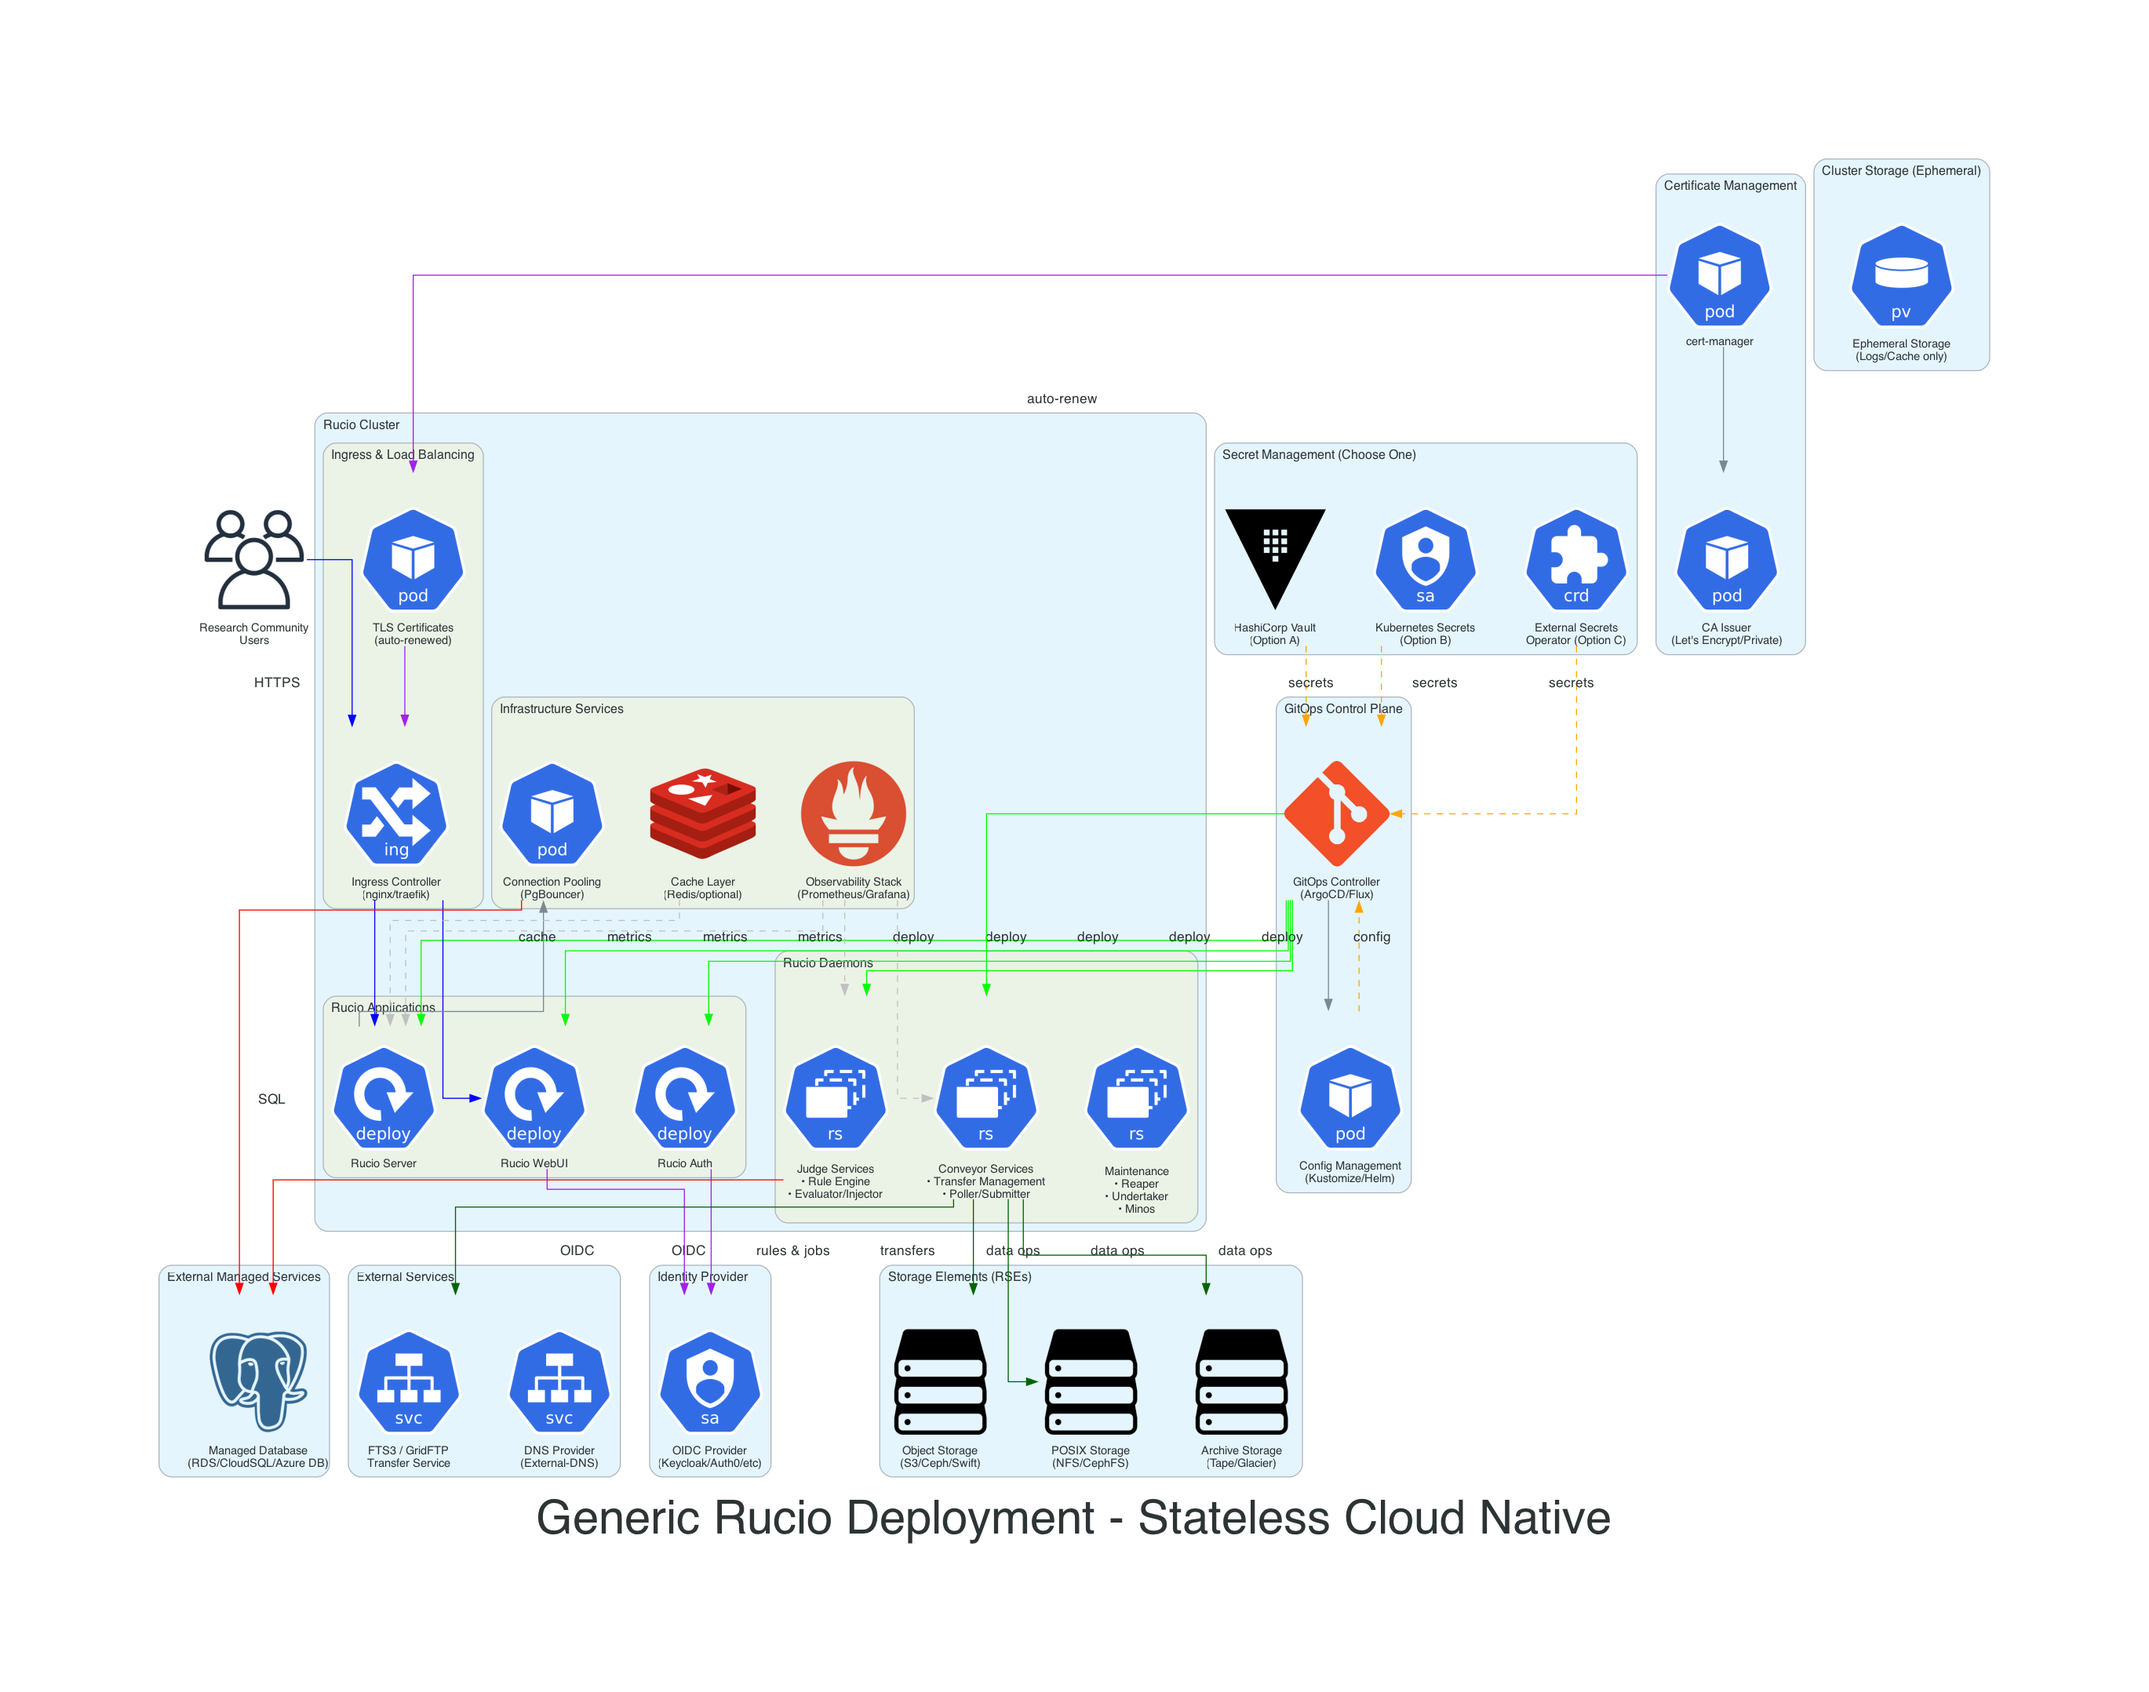
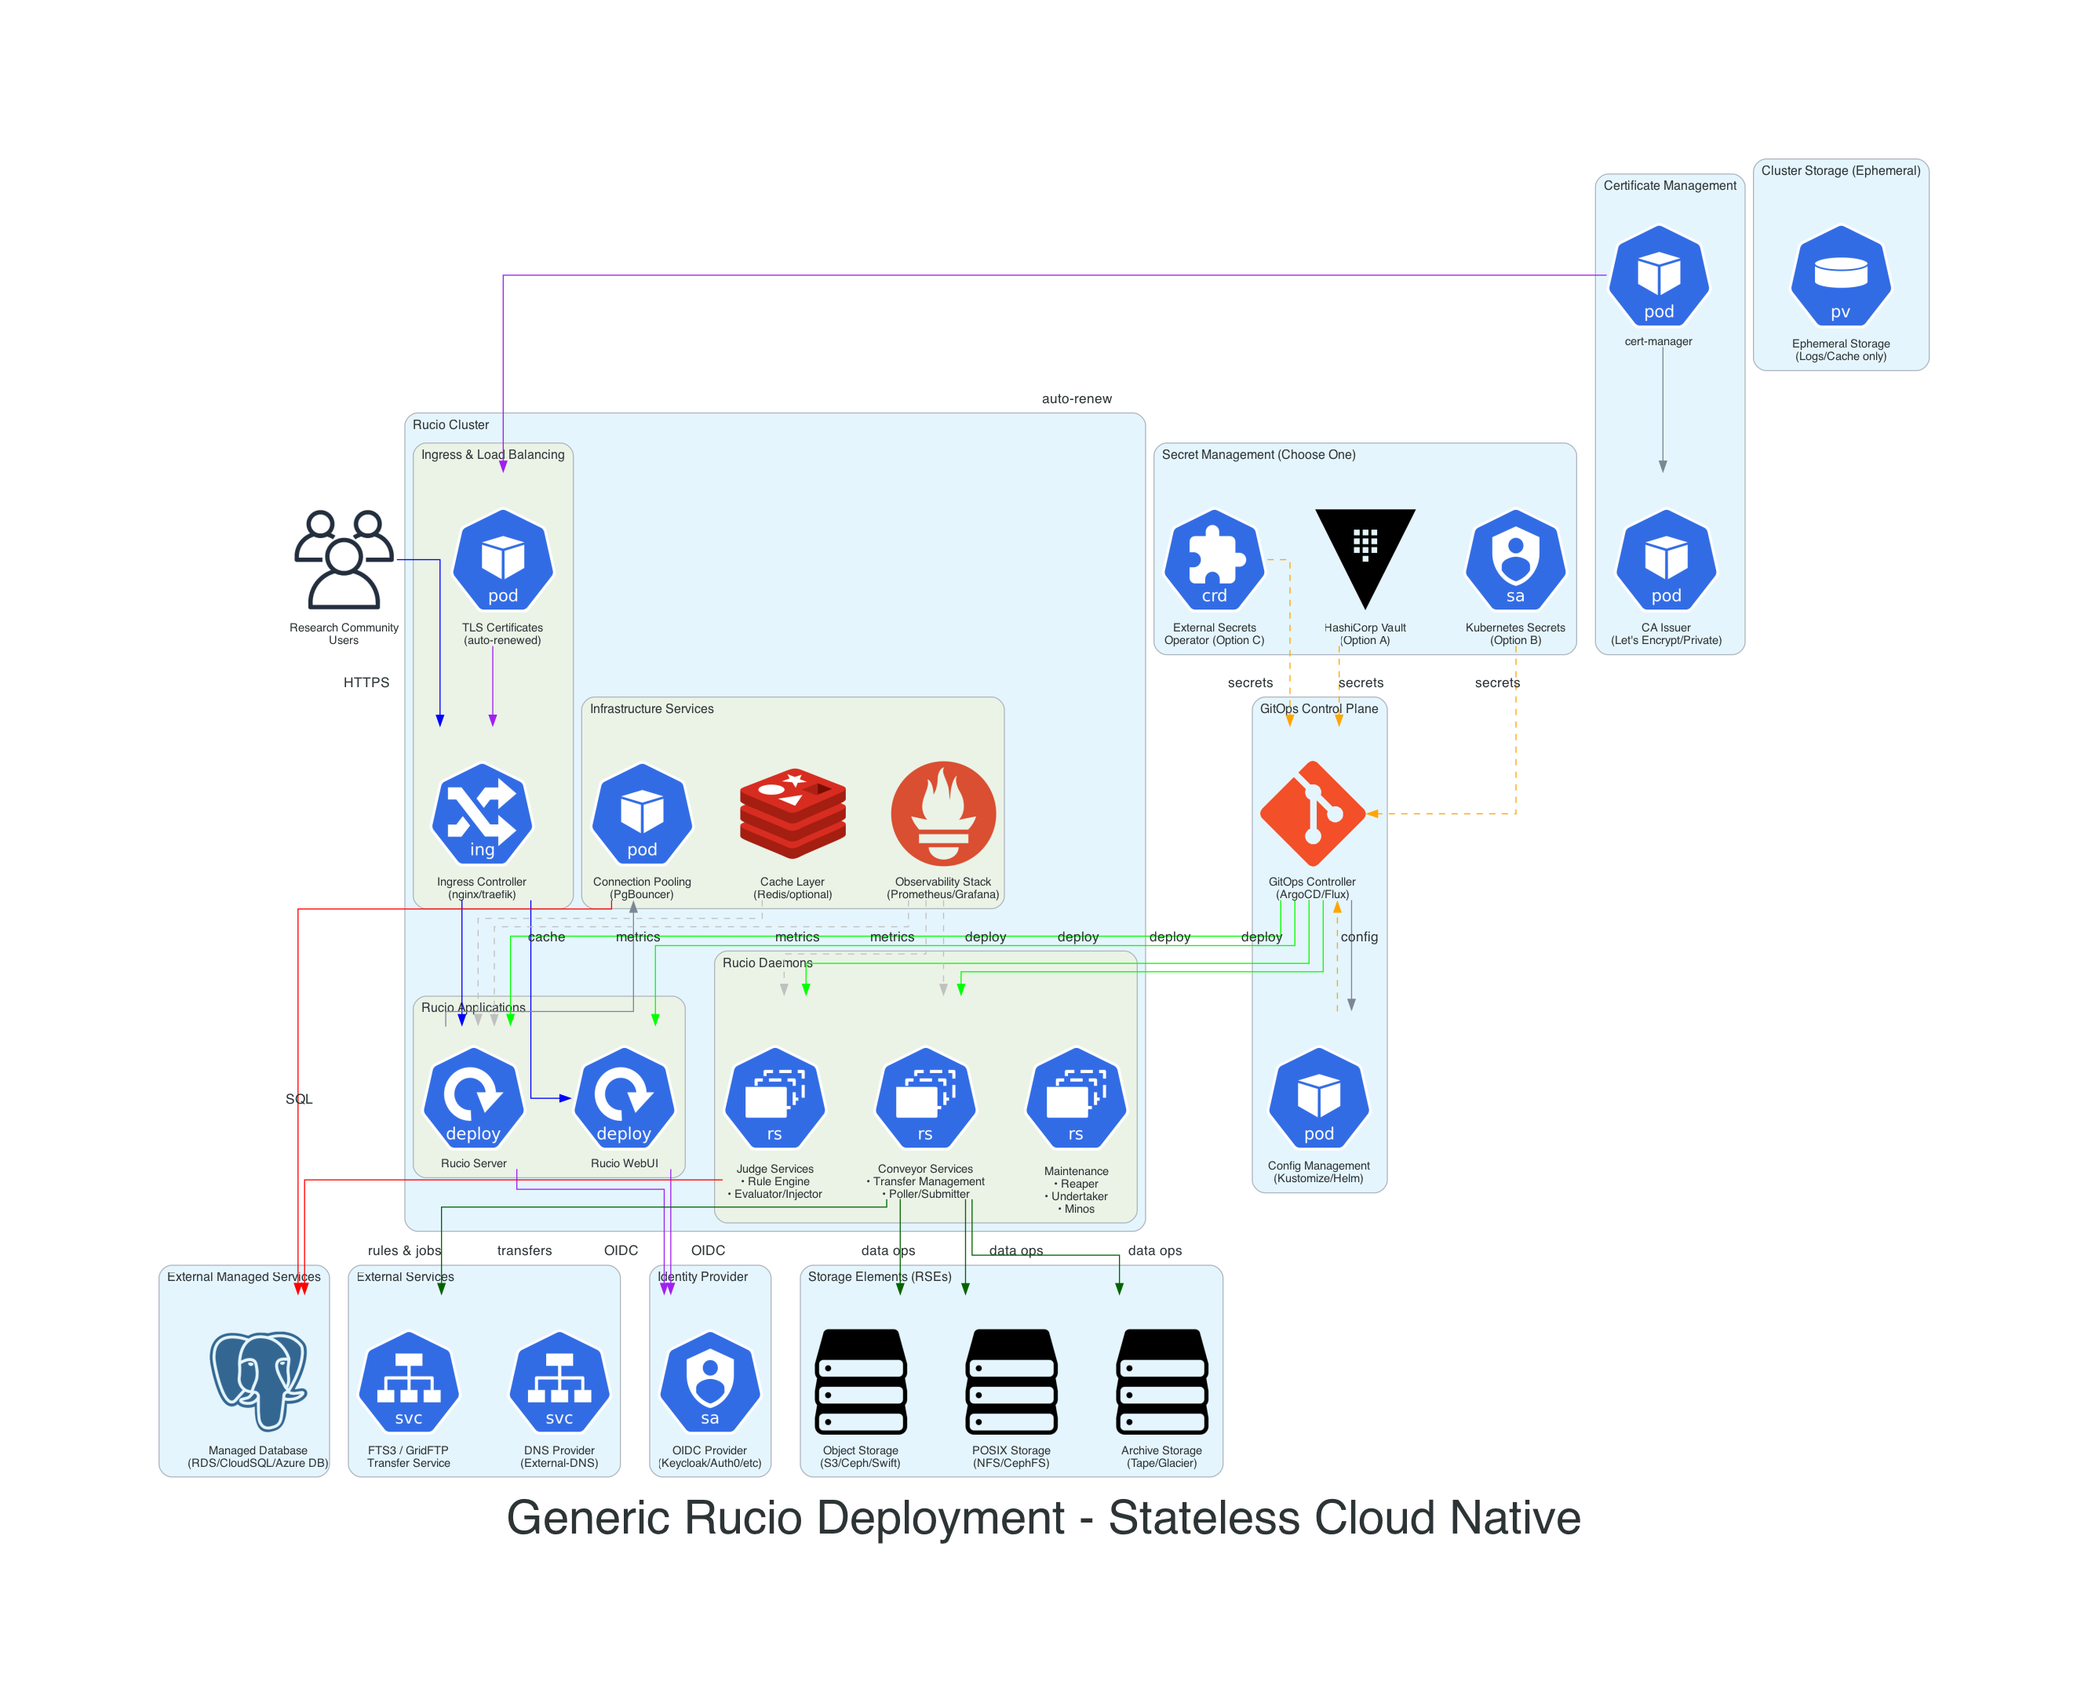
Remove the separate rucio_auth deployment and update connections

Changed region(s): [[0.0624, 0.0932, 0.9357, 0.9318]]

diff --git a/7-deployment-view/rucio-k8s-sme-community-focused/deployment.py b/7-deployment-view/rucio-k8s-sme-community-focused/deployment.py
@@ -80,7 +80,6 @@ with Diagram("Generic Rucio Deployment - Stateless Cloud Native",
         # Rucio Services
         with Cluster("Rucio Applications"):
             rucio_server = Deployment("Rucio Server")
-            rucio_auth = Deployment("Rucio Auth")
             rucio_webui = Deployment("Rucio WebUI")
             
         # Background Processing
@@ -114,7 +113,7 @@ with Diagram("Generic Rucio Deployment - Stateless Cloud Native",
     ingress >> Edge(color="blue") >> [rucio_webui, rucio_server]
     
     # GitOps Flow
-    gitops >> Edge(label="deploy", color="green") >> [rucio_server, rucio_auth, rucio_webui]
+    gitops >> Edge(label="deploy", color="green") >> [rucio_server, rucio_webui]
     gitops >> Edge(label="deploy", color="green") >> [judge_services, conveyor_services]
     config_mgmt >> Edge(style="dashed", label="config", color="orange") >> gitops
     
@@ -128,7 +127,7 @@ with Diagram("Generic Rucio Deployment - Stateless Cloud Native",
     external_secrets >> Edge(style="dashed", label="secrets", color="orange") >> gitops
     
     # Authentication
-    rucio_auth >> Edge(label="OIDC", color="purple") >> oidc_provider
+    rucio_server >> Edge(label="OIDC", color="purple") >> oidc_provider
     rucio_webui >> Edge(label="OIDC", color="purple") >> oidc_provider
     
     # Database Access
